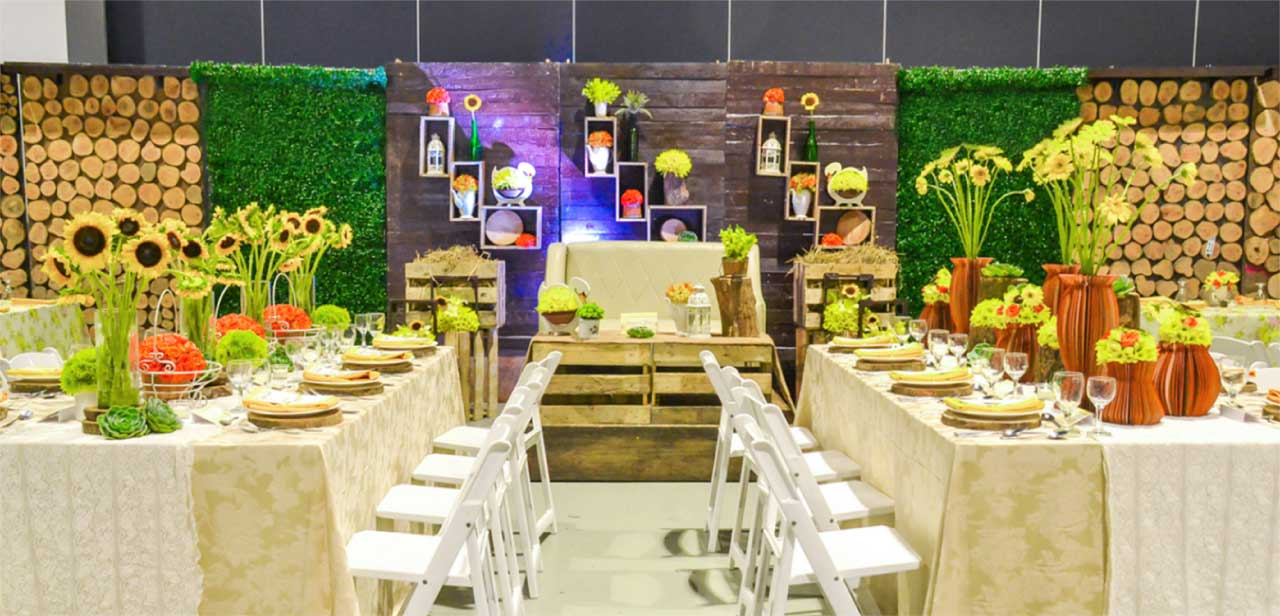
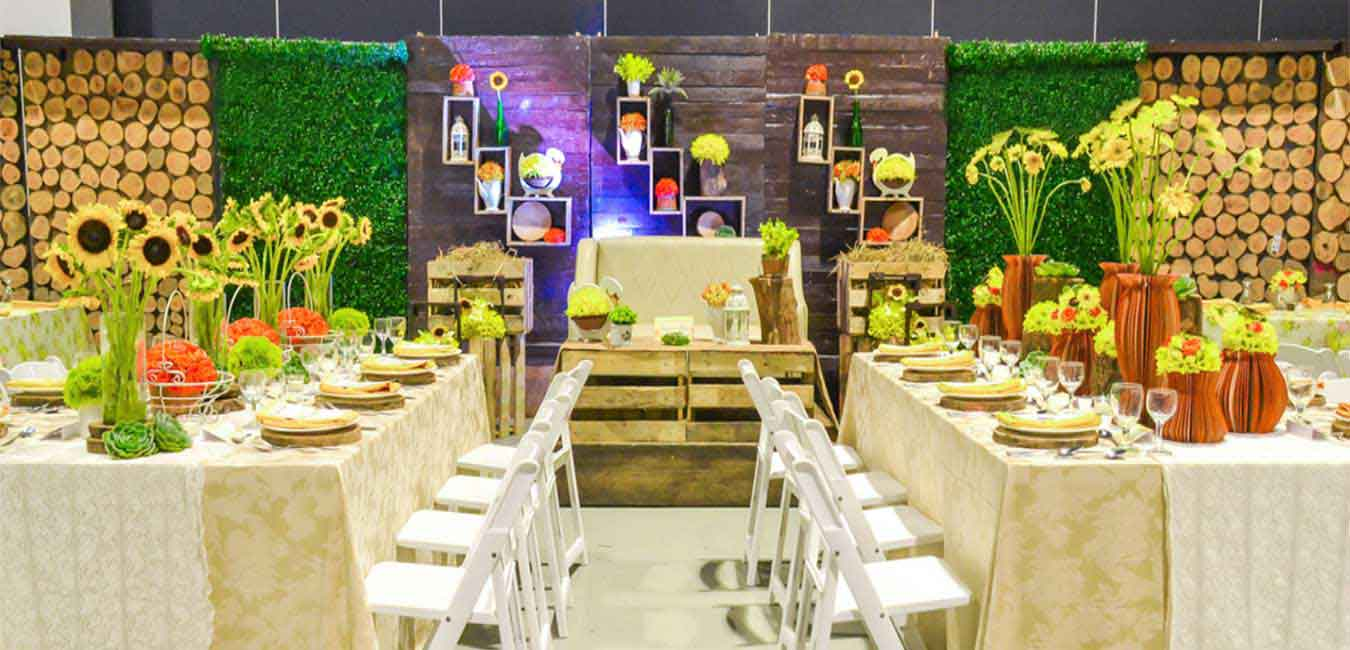
reducing image sizes

diff --git a/css/eventables.min.css b/css/eventables.min.css
@@ -1,0 +1,1 @@
+body{margin:0;background-color:#eaddac}body.noscroll{overflow-y:hidden}*{font-family:raleway,Segoe UI,Tahoma,Geneva,Verdana,sans-serif}.mdl-button,h1,h2,h3,h4,h5,p{font-family:raleway,Roboto,Helvetica,Arial,sans-serif}h1,h2{font-weight:400}.preloader-wrapper{margin:auto;display:inherit}.gold{background:#eaddac!important;color:#ce06d1}.gold.to{border:4px solid #ff9800;border-radius:.3em;box-shadow:1px 2px 10px #3e3232;padding-bottom:1em;margin-bottom:-5em}#page-desc.sdf{color:#c012c3!important;background:#eaddac!important}#page-desc .card .card-action a:not(.btn):not(.btn-large):not(.btn-floating){color:#9c27b0;font-size:1.3rem}.no-js #loader{display:none}.js #loader{display:block;position:absolute;left:100px;top:0}.se-pre-con{position:fixed;left:0;top:0;width:100%;height:100%;z-index:9999;background:url(../images/preloader.gif) 50% no-repeat #fff}.se-pre-con h4{margin-top:8%;text-align:center;color:#dc5753;font-weight:700}#padder{height:30px;width:100%;background-color:#fff;color:#ce06d1;border-top:1px solid #ce06d1;text-align:center}#padder ul{margin-top:5px}#padder ul li{margin-right:8px;display:inline}#padder ul li a{text-decoration:none;color:#ce06d1}nav.purple.accent-3{z-index:900}ul#slide-out{z-index:999}nav .brand-logo{margin:4px 1.2em;font-family:tangerine,Segoe UI,Tahoma,Geneva,Verdana,sans-serif;font-size:3.2rem;font-weight:500}nav ul{margin-right:1em}nav ul a{font-size:1.32rem;font-family:raleway}#drawer_button{display:block;position:absolute;height:48px;width:48px;border:0;-ms-flex-negative:0;flex-shrink:0;overflow:hidden;text-align:center;cursor:pointer;font-size:26px;line-height:50px;font-family:raleway,Segoe UI,Tahoma,Geneva,Verdana,sans-serif;margin:0 12px;top:0;left:0;color:#fff;z-index:4}a.navLinks{transition:all .2s ease-in-out}a.navLinks:hover{border-bottom:3.5px solid #dec97a;line-height:61px}nav ul a:hover{background:transparent}.dropdown-content li>a,.dropdown-content li>span{color:#d500f9}header#home{height:43rem;background-image:url(../images/slide01.jpg);height:95%;height:95vh}header#events-management,header#home{width:100%;background-size:cover;background-attachment:fixed}header#events-management{height:auto;background-image:url(../images/events-management.jpg)}header#catering{background-image:url(../images/catering-service.jpg);background-size:80% 100%}header#blog,header#catering{height:auto;width:100%;background-attachment:fixed}header#blog{background-image:url(../images/ev_blog_banner.jpg)}header#blog .page-heading h2{margin-top:1em;padding-bottom:0}header#blog .page-heading p.eventables-string{font-family:tangerine,Segoe UI,Tahoma,Geneva,Verdana,sans-serif;font-size:4em;margin-top:0;padding-bottom:2em}nav#admin-nav a{cursor:default}#admin-nav+.page-heading{padding-top:2em;padding-bottom:4em}span.modify-post span{position:absolute;top:0}span.modify-post span.edit{right:0}span.modify-post span.delete{left:0}#writeNewPost.modal{border:5px double purple;max-height:90%}.modal-header{position:absolute;top:0;right:0;left:0;background:purple;color:#fff;padding:.4em}header#blog.admin .page-heading p.eventables-string{padding-bottom:0}input.login_handles{width:auto;padding:0 .8em;font-size:1.5em;background:#fff;color:purple!important}input.login_handles::-moz-placeholder{color:purple!important}input.login_handles::-ms-input-placeholder{color:purple!important}input.login_handles::-webkit-input-placeholder{color:purple!important}input.login_handles::placeholder{color:purple!important}#eventables-password-reset{cursor:pointer}.switch label{font-size:1.2rem}#page-splash{position:fixed;top:0;left:0;width:100%;height:100%;background-color:#ce06d1;background:radial-gradient(circle,#ce47ce,#ce06d1);z-index:10000;display:flex;justify-content:center;align-items:center;color:#fff;flex-direction:column}.top-area{height:25em;background-image:url(../images/blog_batoul_table.jpg);margin-top:-1em}.top-area .overlay{padding:10em 1em;text-align:center}#blog-splash>.col.s12 .card{padding:.5em 2em;margin-top:-3em}#blog-splash>.col.s12 .card .flow-text{font-weight:400}.top-area .close{position:absolute;top:1em;border:1px solid #fff;padding:3px 8px;border-radius:50%;cursor:pointer}.top-area .close.right{right:1em}.top-area .close.left{left:1em}#blog-splash{position:fixed;overflow-y:scroll;top:0;left:0;width:100%;height:100%;background-color:#ce06d1;background:radial-gradient(circle,#ce47ce,#ce06d1);z-index:10000;color:#fff}.fixed-action-btn{bottom:45px;right:24px}#error-message{font-size:1.4em;display:block;width:10em;margin:auto}#user-ver .btn,#user-ver .btn-flat,#user-ver .btn-large{height:46px;line-height:46px;vertical-align:top}.password-reset{font-size:1.5em;margin-top:0}.file-field{z-index:-500}#user-ver{margin-top:-4em;padding-bottom:1em}#eventables-sign-in-status.flow-text{font-weight:400}#blog_posts.container.row{width:100%}#blog_posts.row{margin-top:-8em}#blog_posts .card{border-top:2px solid #fff;border-left:2px solid #fff;border-right:2px solid #fff}#blog_posts .card .overlay{background-color:rgba(0,0,0,.59);padding:2em}#blog_posts .card button.btn{border-radius:4em;clear:both;margin-bottom:3em}#blog_posts .card p.post-details{position:relative;margin-top:-2em}header .page-heading p.eventables-string{font-family:tangerine,Segoe UI,Tahoma,Geneva,Verdana,sans-serif;font-size:5em}header .page-heading h2{margin-top:-1em;padding-bottom:2em}div.overlay{height:inherit;width:100%;background-color:rgba(0,0,0,.3)}header#home a.btn-floating{position:absolute;right:49%;left:49%;bottom:0;z-index:3;background:#ce06d1!important;color:#fff!important}.eventables-sub-slogan{padding-top:160px;text-shadow:2px 2px 2px #0c0c0d}.eventables-sub-slogan h5,h4{padding:1px .6em;font-size:30px;margin-bottom:-1em}.eventables-sub-slogan h1{font-size:5.8rem}#what-we-do .card .card-action{font-size:1.5em;line-height:normal;font-weight:500}#what-we-do .card .card-image img{height:15em}section#covered-sticky #top{height:30em;background:url(../images/covered-sticky.jpg);background-size:contain;background-attachment:fixed;width:100%}section#covered-sticky #bottom .flow-text{font-weight:400}section#covered-sticky #bottom button{border-radius:2em}section#covered-sticky #wide-area{height:30em;background:url(../images/wide_area.jpg);background-size:100%;background-attachment:fixed;width:100%}.card .card-action a{color:#ce06d1}nav a.button-collapse i.fa.fa-bars{font-size:.9em}#slide-out .userView .name{position:relative;max-height:160px;color:#fff;font-family:tangerine;font-size:3rem}.purple.accent-3{background-color:#c012c3!important}.bold a{font-weight:500;color:#6b007d}.side-nav .collapsible-header,.side-nav li.bold a:first-child{border-bottom:2px solid #9c27b0}footer.page-footer .footer-copyright{font-weight:400}footer .row .col{margin-bottom:2rem;text-align:center}div#page-desc{height:auto;padding:2% 1% 10%;margin-top:-1.5em;margin-bottom:-1.5em}div#page-desc .card{padding:.1em 1em;min-height:15em;margin-bottom:3em}div#page-desc h4{margin-bottom:1em}div#page-desc ul{padding:.1em 2em}div#page-desc ul li{list-style-type:circle;font-size:1.5em;margin-left:10px}

diff --git a/blog.html b/blog.html
@@ -4,10 +4,11 @@
   <title>Eventables | Events Management and Catering Services</title>
   <meta charset="utf-8">
   <meta name="google-site-verification" content="sNjCyQYEWEC_E_VyRhcNsfIvKTFzUc2Dc-yS6mCRYEM" />
+  <meta name="description" content="Eventables Limited | Events Management and Catering Services">
   <meta http-equiv="X-UA-Compatible" content="IE=edge">
   <meta name="description" content="Eventables events Management and Catering Services">
   <meta name="viewport" content="width=device-width, initial-scale=1">
-
+    
   <!--online scripts-->
   <!--<link rel="stylesheet" href="https://maxcdn.bootstrapcdn.com/font-awesome/4.5.0/css/font-awesome.min.css" />-->
   <!--<link rel="stylesheet" href="https://fonts.googleapis.com/css?family=Roboto:regular,bold,italic,thin,light,bolditalic,black,medium&amp;lang=en"/>-->
@@ -33,9 +34,9 @@
   <div id="blog-splash" class="card hide row">
     <div class="top-area">
       <div class="overlay">
-        <span class="close left tooltipped" data-position="bottom" data-delay="50" data-tooltip="Close Post">
+        <!--<span class="close left tooltipped" data-position="bottom" data-delay="50" data-tooltip="Close Post">
           <i class="fa fa-close fa-3x"></i>
-        </span>
+        </span>-->
         <span class="close right tooltipped" data-position="bottom" data-delay="50" data-tooltip="Close Post">
           <i class="fa fa-close fa-3x"></i>
         </span>
@@ -48,7 +49,6 @@
           <p class="flow-text content">Blog Content</p>
         </div>
       </div>
-      
     </div>
   </div>
   <a name="top" id="top"></a>

diff --git a/index.html b/index.html
@@ -23,6 +23,19 @@
   <script src="https://www.gstatic.com/firebasejs/3.3.0/firebase.js"></script>
   <script src="js/jquery.min.js"></script>
 </head>
+<script type="application/ld+json">
+{
+  "@context" : "http://schema.org",
+  "@type" : "LocalBusiness",
+  "name" : "Eventables",
+  "telephone" : "0703-864-2085",
+  "email" : "contact@eventables.com.ng",
+  "address" : {
+    "@type" : "PostalAddress",
+    "streetAddress" : "Plot 591A Victoria Ironsi Street, 41 crescent, 4th Avenue, Gwarimpa, Abuja"
+  }
+}
+</script>
 <script type="text/javascript">
   $(window).load(function() {
     $(".se-pre-con").fadeOut("slow");
